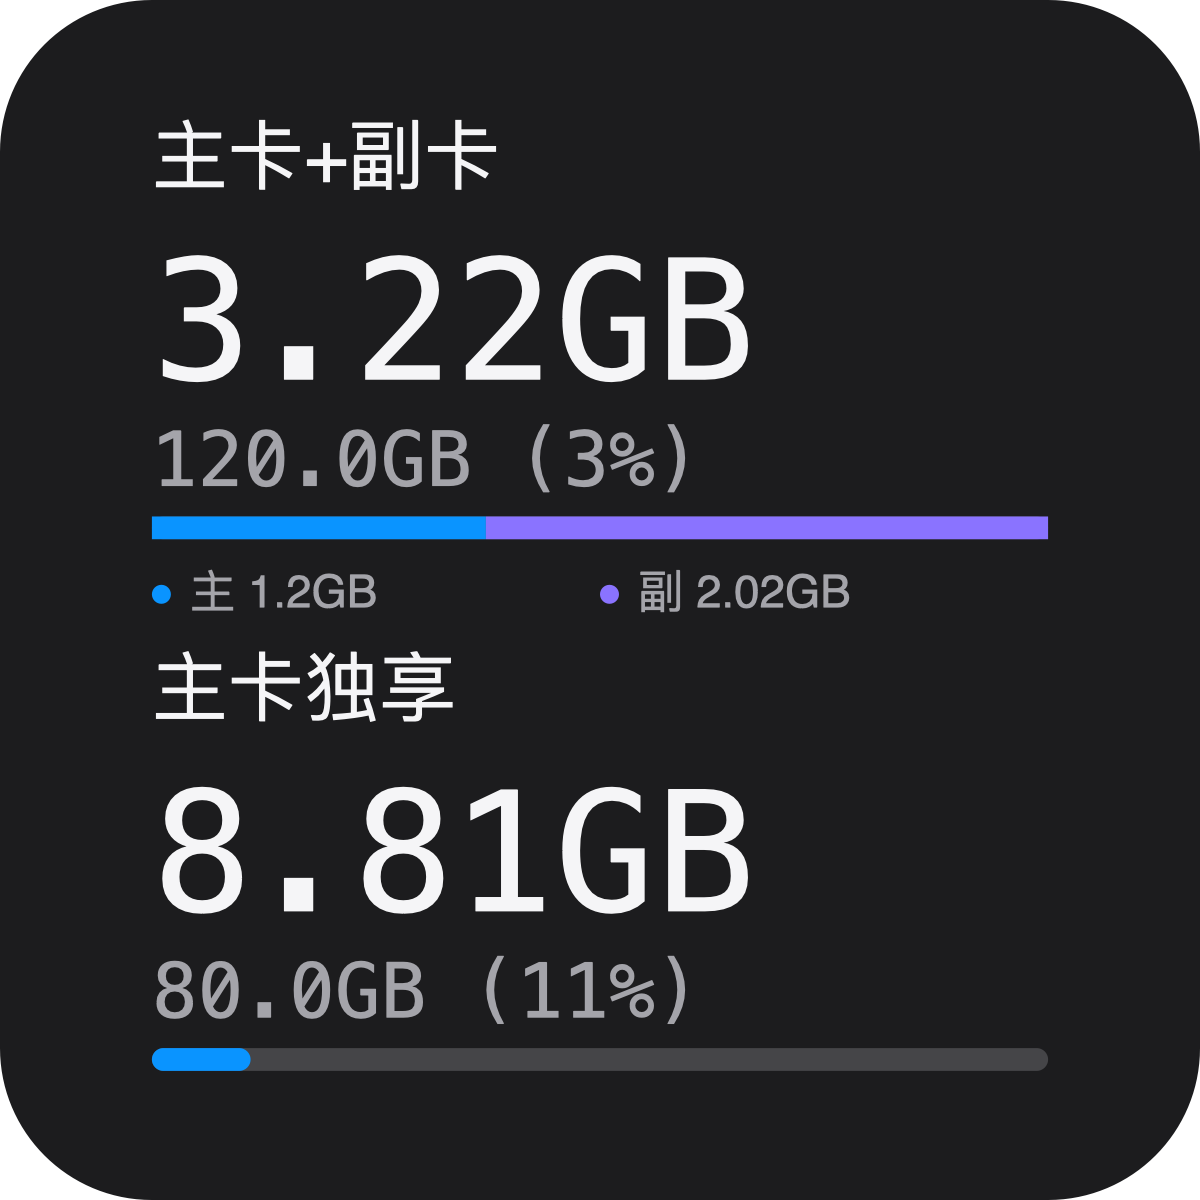
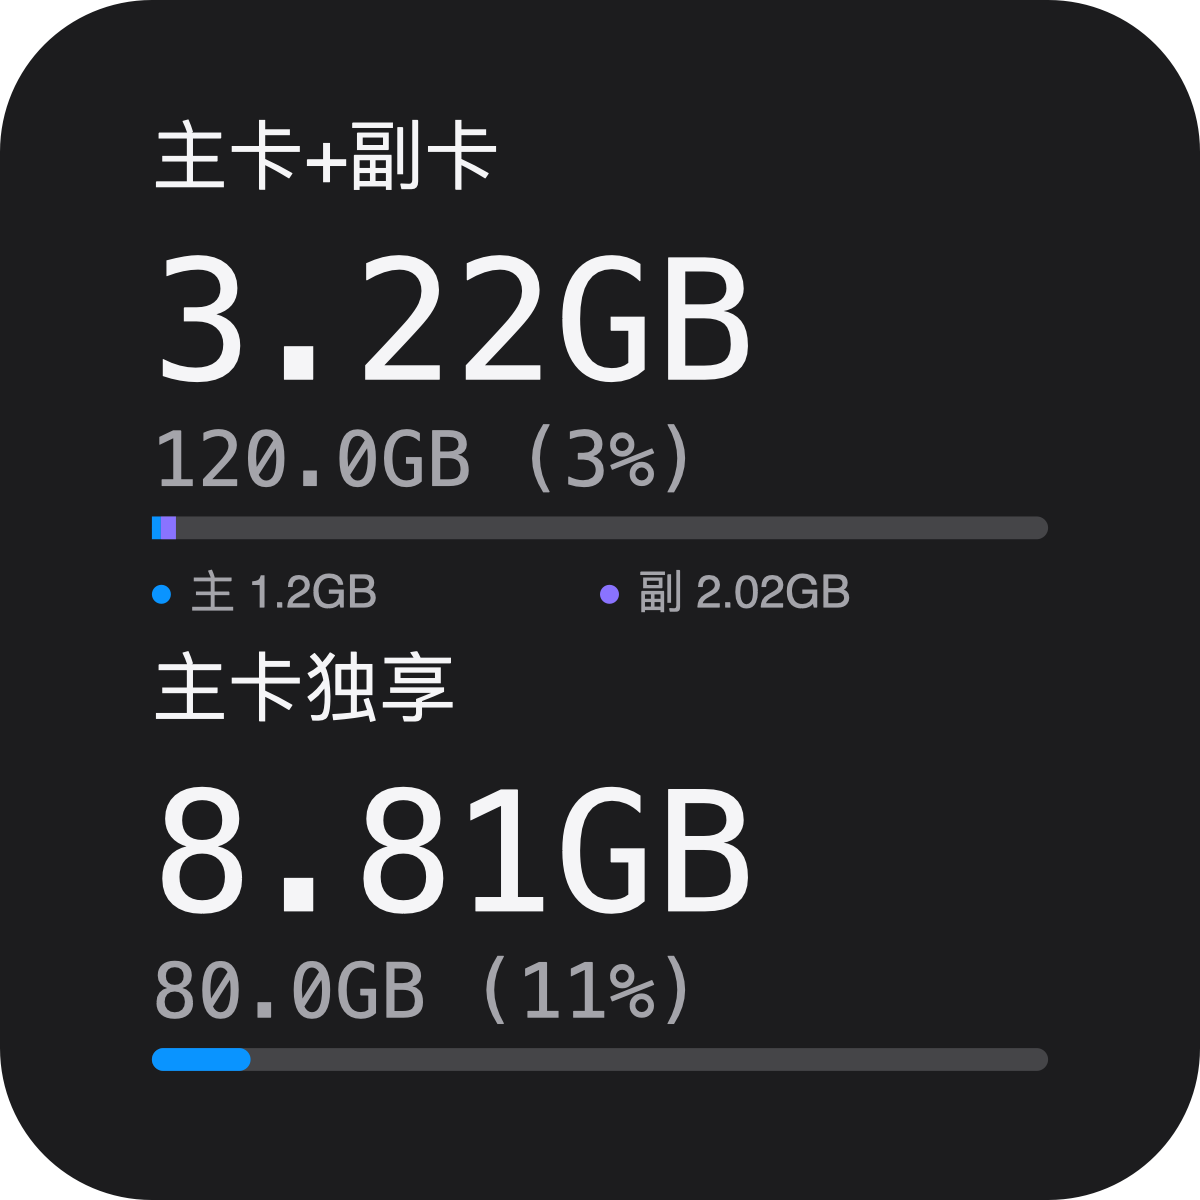
Scale shared card progress against total package quota

Changed region(s): [[0.1233, 0.4317, 0.8942, 0.4625]]

diff --git a/scriptable/UnicomFlow.js b/scriptable/UnicomFlow.js
@@ -528,11 +528,12 @@ function drawMetric(ctx, metric, label, x, y, width, compact) {
   roundedRect(ctx, x, barY, width, barH, 1.5, UF.track);
   if (metric && metric.composition) {
     const c = metric.composition;
-    // 彩条表示共享已用构成；有缺失或总数不一致时不推算成某张卡的流量。
-    if (c.complete && metric.used > 0) {
-      const mainWidth = width * c.main / (c.main + c.vice);
+    // 彩条按套餐总量分别表示主副卡已用量，未用部分保留灰色。超额时按已用构成缩放至条宽。
+    if (c.complete && metric.used > 0 && metric.total > 0) {
+      const scale = width / Math.max(metric.total, c.main + c.vice);
+      const mainWidth = c.main * scale, viceWidth = c.vice * scale;
       if (c.main > 0) { ctx.setFillColor(new Color(UF.blue)); ctx.fillRect(new Rect(x, barY, mainWidth, barH)); }
-      if (c.vice > 0) { ctx.setFillColor(new Color(UF.purple)); ctx.fillRect(new Rect(x + mainWidth, barY, width - mainWidth, barH)); }
+      if (c.vice > 0) { ctx.setFillColor(new Color(UF.purple)); ctx.fillRect(new Rect(x + mainWidth, barY, viceWidth, barH)); }
     }
     const half = width / 2;
     roundedRect(ctx, x, y + 63, 2.5, 2.5, 1.25, UF.blue);

diff --git a/docs/unicom-flow/README.md b/docs/unicom-flow/README.md
@@ -36,7 +36,7 @@
 
 ## 显示规则
 
-大数字表示已用，下方表示套餐总量和已用百分比，主卡独享等普通套餐的横条表示已用比例；共享池的蓝紫横条表示共享已用量中主卡与副卡的构成，并非套餐消耗比例。下方标明两张卡各自的共享用量，蓝色为主卡、紫色为副卡；成员缺失或合计不符时保留灰条并提示，不推算缺失用量。标题和数据采用更宽的安全留白；小号正常状态省略底部更新时间，避免圆角遮挡。缓存或未识别明细的提示仍保留在安全区域内。不同手机尺寸统一按设计高度缩放布局。整卡使用背景图填满组件，避免固定宽度内容图片产生边缘细线；小时标签、竖线、柱子共用每格中心点对齐。在“组件配置 → 组件主题”选择黑色或白色，默认黑色，不随系统自动变化。两种主题分别保存自定义颜色，切换后文字、刻度、背景和提示颜色一起变化；可在“颜色配置”中调整当前主题。原版本的颜色设置仅迁移到黑色主题，避免白色主题套用旧的黑底配置。不限量套餐不计算百分比；没有返回某一类明细时显示 `--`，不伪装成 0。
+大数字表示已用，下方表示套餐总量和已用百分比，主卡独享等普通套餐的横条表示已用比例；共享池的整条长度代表套餐总量，蓝色段表示主卡已用、紫色段表示副卡已用，剩余灰色表示未用流量。例如共享总量 120 GB、主卡已用 1.2 GB、副卡已用 2.02 GB 时，两段合计只占整条约 2.68%。下方标明两张卡各自的共享用量，蓝色为主卡、紫色为副卡；成员缺失或合计不符时保留灰条并提示，不推算缺失用量。标题和数据采用更宽的安全留白；小号正常状态省略底部更新时间，避免圆角遮挡。缓存或未识别明细的提示仍保留在安全区域内。不同手机尺寸统一按设计高度缩放布局。整卡使用背景图填满组件，避免固定宽度内容图片产生边缘细线；小时标签、竖线、柱子共用每格中心点对齐。在“组件配置 → 组件主题”选择黑色或白色，默认黑色，不随系统自动变化。两种主题分别保存自定义颜色，切换后文字、刻度、背景和提示颜色一起变化；可在“颜色配置”中调整当前主题。原版本的颜色设置仅迁移到黑色主题，避免白色主题套用旧的黑底配置。不限量套餐不计算百分比；没有返回某一类明细时显示 `--`，不伪装成 0。
 
 脚本调用联通的套餐明细接口 `queryOcsPackageFlowLeftContentRevisedInJune`。其明细中的 `total/use/remain` 默认以 MB 计，明确带单位的数值按单位换算；不从首页汇总值推算通用／定向数据。
 
